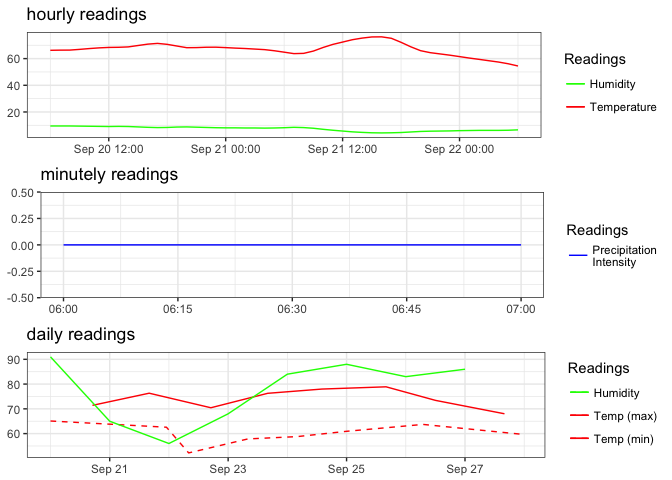
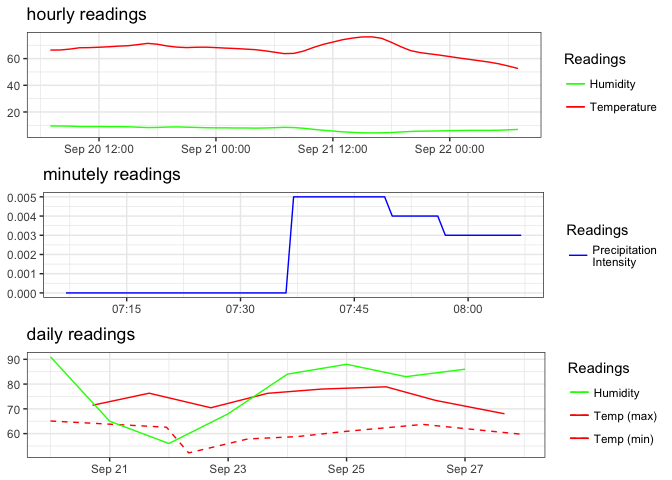
badges

diff --git a/README.md b/README.md
@@ -1,5 +1,9 @@
 
-[![Project Status: Active - The project has reached a stable, usable state and is being actively developed.](http://www.repostatus.org/badges/0.1.0/active.svg)](http://www.repostatus.org/#active) <!-- [![Coverage Status](https://img.shields.io/codecov/c/github/hrbrmstr/darksky/master.svg)](https://codecov.io/github/hrbrmstr/darksky?branch=master) --> <!-- [![AppVeyor Build Status](https://ci.appveyor.com/api/projects/status/github/hrbrmstr/darksky?branch=master&svg=true)](https://ci.appveyor.com/project/hrbrmstr/darksky) --> <!-- [![Build Status](https://travis-ci.org/hrbrmstr/darksky.svg)](https://travis-ci.org/hrbrmstr/darksky) [![CRAN_Status_Badge](http://www.r-pkg.org/badges/version/darksky)](https://cran.r-project.org/package=darksky) --> ![downloads](http://cranlogs.r-pkg.org/badges/grand-total/darksky)
+[![Coverage Status](https://img.shields.io/codecov/c/github/hrbrmstr/darksky/master.svg)](https://codecov.io/github/hrbrmstr/darksky?branch=master)
+[![Build Status](https://travis-ci.org/hrbrmstr/darksky.svg?branch=master)](https://travis-ci.org/hrbrmstr/darksky)
+[![Build status](https://ci.appveyor.com/api/projects/status/gq0uxmae9ii64g6q?svg=true)](https://ci.appveyor.com/project/hrbrmstr/darksky)
+[![CRAN_Status_Badge](http://www.r-pkg.org/badges/version/darksky)](https://cran.r-project.org/package=darksky)
+![downloads](http://cranlogs.r-pkg.org/badges/grand-total/darksky)
 
 `darksky` : Tools to Work with the Dark Sky API
 
@@ -46,45 +50,47 @@ print(now)
 
     ## minutely 
     ## ======================================================================================================================== 
-    ## 'data.frame':    61 obs. of  3 variables:
-    ##  $ time             : POSIXct, format: "2017-09-20 06:00:00" "2017-09-20 06:01:00" "2017-09-20 06:02:00" "2017-09-20 06:03:00" ...
-    ##  $ precipIntensity  : int  0 0 0 0 0 0 0 0 0 0 ...
-    ##  $ precipProbability: int  0 0 0 0 0 0 0 0 0 0 ...
+    ## 'data.frame':    61 obs. of  5 variables:
+    ##  $ time                : POSIXct, format: "2017-09-20 07:07:00" "2017-09-20 07:08:00" "2017-09-20 07:09:00" "2017-09-20 07:10:00" ...
+    ##  $ precipIntensity     : num  0 0 0 0 0 0 0 0 0 0 ...
+    ##  $ precipProbability   : num  0 0 0 0 0 0 0 0 0 0 ...
+    ##  $ precipIntensityError: num  NA NA NA NA NA NA NA NA NA NA ...
+    ##  $ precipType          : chr  NA NA NA NA ...
     ## NULL
     ## 
     ## hourly 
     ## ======================================================================================================================== 
     ## 'data.frame':    49 obs. of  18 variables:
-    ##  $ time               : POSIXct, format: "2017-09-20 06:00:00" "2017-09-20 07:00:00" "2017-09-20 08:00:00" "2017-09-20 09:00:00" ...
+    ##  $ time               : POSIXct, format: "2017-09-20 07:00:00" "2017-09-20 08:00:00" "2017-09-20 09:00:00" "2017-09-20 10:00:00" ...
     ##  $ summary            : chr  "Overcast" "Overcast" "Overcast" "Overcast" ...
     ##  $ icon               : chr  "cloudy" "cloudy" "cloudy" "cloudy" ...
-    ##  $ precipIntensity    : num  0 0 0.002 0.0035 0.0041 0.005 0.006 0.0065 0.0081 0.0057 ...
-    ##  $ precipProbability  : num  0 0 0.1 0.11 0.11 0.12 0.12 0.13 0.13 0.1 ...
-    ##  $ temperature        : num  66.2 66.3 66.4 66.9 67.5 ...
-    ##  $ apparentTemperature: num  67 67.1 67.2 67.8 68.3 ...
-    ##  $ dewPoint           : num  64.7 64.8 65 65.3 65.4 ...
-    ##  $ humidity           : num  0.95 0.95 0.95 0.94 0.93 0.92 0.91 0.92 0.91 0.88 ...
-    ##  $ pressure           : num  1014 1014 1014 1014 1014 ...
-    ##  $ windSpeed          : num  7.57 8.62 9.96 10.45 10.62 ...
-    ##  $ windGust           : num  16.8 20.4 23.8 24.9 25 ...
-    ##  $ windBearing        : int  28 30 33 36 34 32 32 30 25 27 ...
-    ##  $ cloudCover         : num  1 1 1 1 0.96 0.99 1 1 1 1 ...
-    ##  $ uvIndex            : int  0 0 0 1 2 2 3 3 2 2 ...
-    ##  $ visibility         : num  9 8.67 8.45 8.3 8.52 8.86 9.19 9.53 9.76 10 ...
-    ##  $ ozone              : num  266 266 267 267 267 ...
-    ##  $ precipType         : chr  NA NA "rain" "rain" ...
+    ##  $ precipIntensity    : num  0.0002 0.0028 0.0034 0.0045 0.0046 0.0064 0.0064 0.0073 0.0061 0.0019 ...
+    ##  $ precipProbability  : num  0.04 0.07 0.1 0.11 0.11 0.13 0.12 0.12 0.11 0.06 ...
+    ##  $ precipType         : chr  "rain" "rain" "rain" "rain" ...
+    ##  $ temperature        : num  66.4 66.5 67.1 68.1 68.2 ...
+    ##  $ apparentTemperature: num  67.2 67.3 68 68.9 69 ...
+    ##  $ dewPoint           : num  64.9 65.1 65.3 65.4 65.5 ...
+    ##  $ humidity           : num  0.95 0.95 0.94 0.91 0.91 0.91 0.9 0.9 0.89 0.86 ...
+    ##  $ pressure           : num  1015 1014 1014 1014 1013 ...
+    ##  $ windSpeed          : num  7.45 8.96 10.31 11.08 11.16 ...
+    ##  $ windGust           : num  17.1 20.9 27.4 29.2 27.3 ...
+    ##  $ windBearing        : int  30 34 33 37 34 31 31 29 33 26 ...
+    ##  $ cloudCover         : num  1 1 1 0.99 0.99 0.99 1 1 1 1 ...
+    ##  $ uvIndex            : int  0 0 1 2 2 3 3 2 2 1 ...
+    ##  $ visibility         : num  7.87 7.98 8.14 8.46 8.75 9.18 9.87 10 10 10 ...
+    ##  $ ozone              : num  266 267 267 267 267 ...
     ## NULL
     ## 
     ## daily 
     ## ======================================================================================================================== 
     ## 'data.frame':    8 obs. of  39 variables:
     ##  $ time                       : POSIXct, format: "2017-09-20" "2017-09-21" "2017-09-22" "2017-09-23" ...
-    ##  $ summary                    : chr  "Light rain until afternoon." "Mostly cloudy throughout the day." "Partly cloudy throughout the day." "Mostly cloudy until evening." ...
+    ##  $ summary                    : chr  "Light rain in the morning and afternoon." "Mostly cloudy throughout the day." "Partly cloudy throughout the day." "Mostly cloudy until evening." ...
     ##  $ icon                       : chr  "rain" "partly-cloudy-day" "partly-cloudy-day" "partly-cloudy-day" ...
     ##  $ sunriseTime                : POSIXct, format: "2017-09-20 06:29:59" "2017-09-21 06:31:05" "2017-09-22 06:32:11" "2017-09-23 06:33:17" ...
     ##  $ sunsetTime                 : POSIXct, format: "2017-09-20 18:46:17" "2017-09-21 18:44:28" "2017-09-22 18:42:38" "2017-09-23 18:40:48" ...
     ##  $ moonPhase                  : num  0.02 0.05 0.09 0.12 0.15 0.18 0.21 0.24
-    ##  $ precipIntensity            : num  0.0037 0.0001 0.0002 0.0001 0 0.0002 0.0019 0.0043
+    ##  $ precipIntensity            : num  0.004 0.0001 0.0002 0.0001 0 0.0002 0.0019 0.0043
     ##  $ precipIntensityMax         : num  0.0156 0.0002 0.0003 0.0002 0.0002 0.0007 0.0038 0.0132
     ##  $ precipIntensityMaxTime     : POSIXct, format: "2017-09-20 04:00:00" "2017-09-21 02:00:00" "2017-09-22 04:00:00" "2017-09-23 17:00:00" ...
     ##  $ precipProbability          : num  0.62 0.11 0.09 0.07 0 0.13 0.29 0.41
@@ -100,14 +106,14 @@ print(now)
     ##  $ dewPoint                   : num  64.9 55.4 45.3 53.5 61.1 ...
     ##  $ humidity                   : num  0.91 0.65 0.56 0.68 0.84 0.88 0.83 0.86
     ##  $ pressure                   : num  1014 1017 1020 1018 1016 ...
-    ##  $ windSpeed                  : num  9.02 10.68 10.53 7.22 2.42 ...
+    ##  $ windSpeed                  : num  8.85 10.68 10.53 7.22 2.42 ...
     ##  $ windGust                   : num  30 30.2 30 26.8 8.8 ...
     ##  $ windGustTime               : int  1505962800 1505966400 1506081600 1506139200 1506286800 1506380400 1506481200 1506513600
     ##  $ windBearing                : int  28 24 31 33 61 78 76 54
-    ##  $ cloudCover                 : num  1 0.86 0.62 0.52 0.12 0.51 0.97 0.94
+    ##  $ cloudCover                 : num  0.99 0.86 0.62 0.52 0.12 0.51 0.97 0.94
     ##  $ uvIndex                    : int  3 3 4 3 5 3 3 3
     ##  $ uvIndexTime                : int  1505923200 1506006000 1506096000 1506182400 1506268800 1506351600 1506441600 1506528000
-    ##  $ visibility                 : num  9.72 10 10 10 NA NA NA NA
+    ##  $ visibility                 : num  9.4 10 10 10 NA NA NA NA
     ##  $ ozone                      : num  265 265 262 261 255 ...
     ##  $ temperatureMin             : num  65.1 62.6 52.2 57.9 58.8 ...
     ##  $ temperatureMinTime         : POSIXct, format: "2017-09-20 00:00:00" "2017-09-21 23:00:00" "2017-09-22 08:00:00" "2017-09-23 08:00:00" ...
@@ -122,24 +128,24 @@ print(now)
     ## currently 
     ## ======================================================================================================================== 
     ## 'data.frame':    1 obs. of  19 variables:
-    ##  $ time                : POSIXct, format: "2017-09-20 06:00:14"
+    ##  $ time                : POSIXct, format: "2017-09-20 07:07:18"
     ##  $ summary             : chr "Overcast"
     ##  $ icon                : chr "cloudy"
-    ##  $ nearestStormDistance: int 15
-    ##  $ nearestStormBearing : int 180
+    ##  $ nearestStormDistance: int 7
+    ##  $ nearestStormBearing : int 129
     ##  $ precipIntensity     : int 0
     ##  $ precipProbability   : int 0
-    ##  $ temperature         : num 66.2
-    ##  $ apparentTemperature : num 67
-    ##  $ dewPoint            : num 64.7
+    ##  $ temperature         : num 66.4
+    ##  $ apparentTemperature : num 67.2
+    ##  $ dewPoint            : num 64.9
     ##  $ humidity            : num 0.95
-    ##  $ pressure            : num 1014
-    ##  $ windSpeed           : num 7.57
-    ##  $ windGust            : num 16.8
-    ##  $ windBearing         : int 28
+    ##  $ pressure            : num 1015
+    ##  $ windSpeed           : num 7.63
+    ##  $ windGust            : num 17.6
+    ##  $ windBearing         : int 31
     ##  $ cloudCover          : int 1
     ##  $ uvIndex             : int 0
-    ##  $ visibility          : int 9
+    ##  $ visibility          : num 7.88
     ##  $ ozone               : num 266
     ## NULL
 
@@ -414,7 +420,7 @@ bigger_list$Maine
 print(sprintf("You have used %s API calls.", then$`x-forecast-api-calls`))
 ```
 
-    ## [1] "You have used 74 API calls."
+    ## [1] "You have used 251 API calls."
 
 ``` r
 plot(now)
@@ -440,7 +446,7 @@ library(testthat)
 date()
 ```
 
-    ## [1] "Wed Sep 20 06:00:19 2017"
+    ## [1] "Wed Sep 20 07:07:24 2017"
 
 ``` r
 test_dir("tests/")
